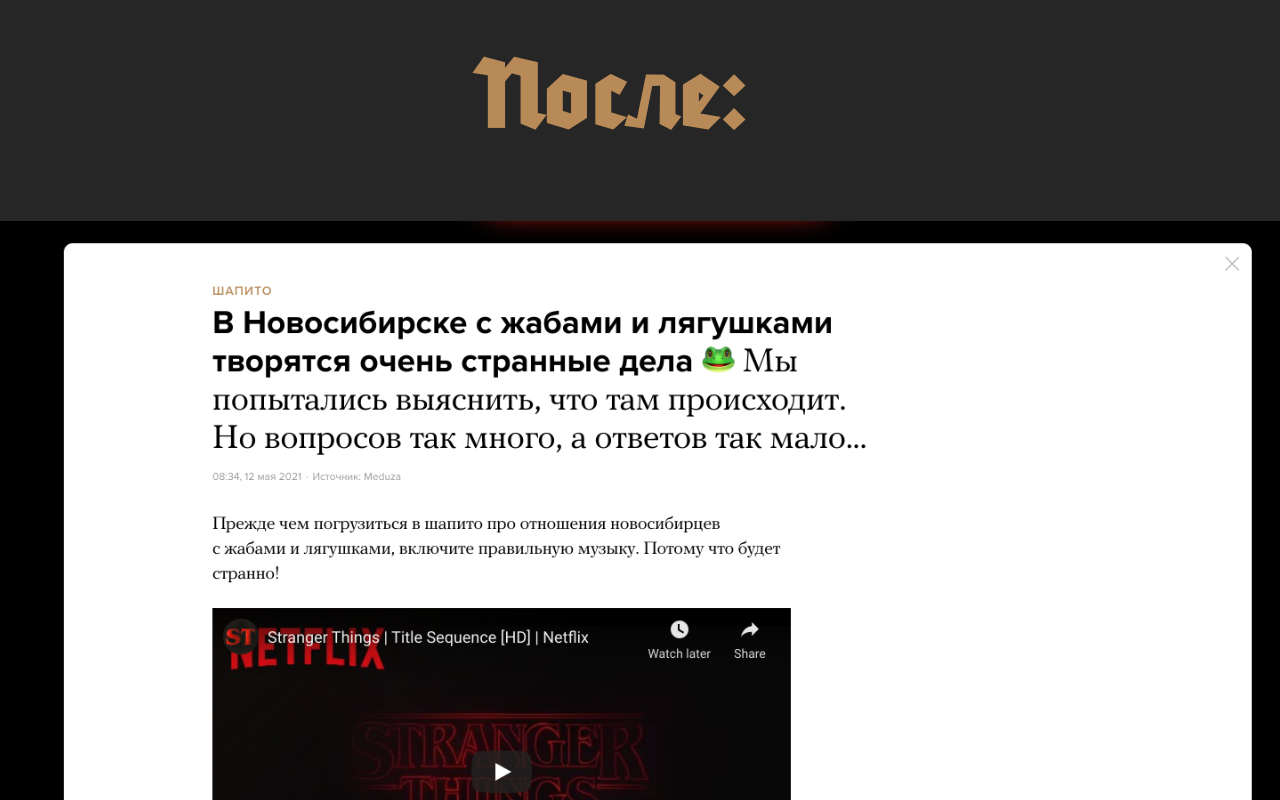
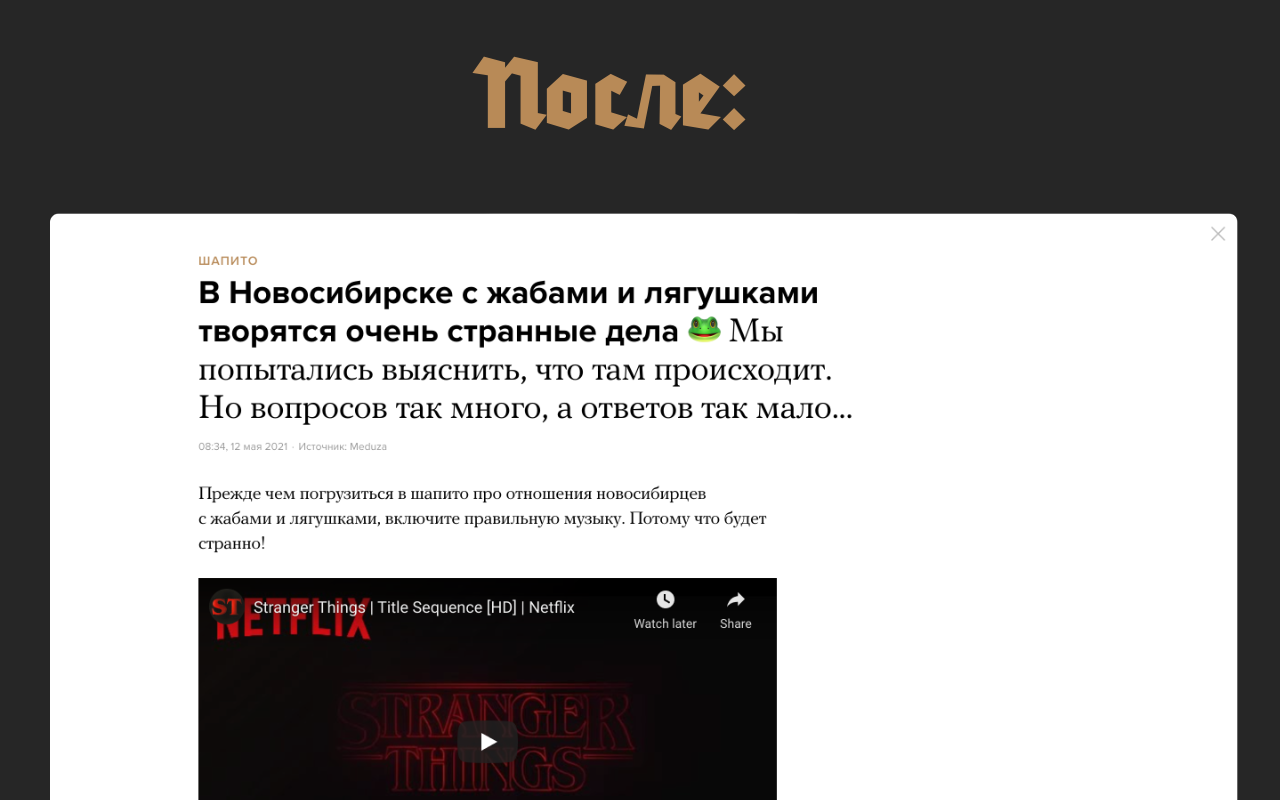
Update images and readme

Changed region(s): [[0.0, 0.25, 1.0, 1.0], [0.1562, 0.5938, 0.625, 1.0], [0.2812, 0.8438, 0.5, 1.0]]

diff --git a/background.js b/background.js
@@ -1,11 +1,3 @@
-let color = '#3aa757';
-let enabled = true;
-
-chrome.runtime.onInstalled.addListener(() => {
-  chrome.storage.sync.set({ color, enabled });
-  console.log('Default background color set to %cgreen', `color: ${color}`);
-});
-
 chrome.tabs.onUpdated.addListener( function (tabId, changeInfo, tab) {
   
   if (changeInfo.status == 'complete' && tab.active) {

diff --git a/README.md b/README.md
@@ -1,0 +1,1 @@
+Chrome extension to bring sanity back to meduza.io by removing the annoying banner.
